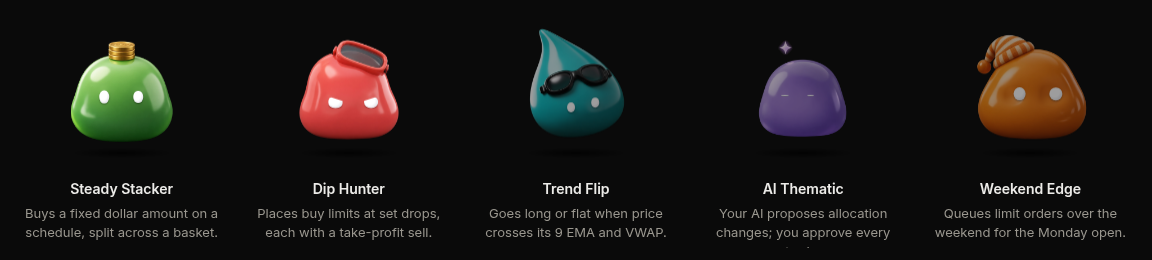
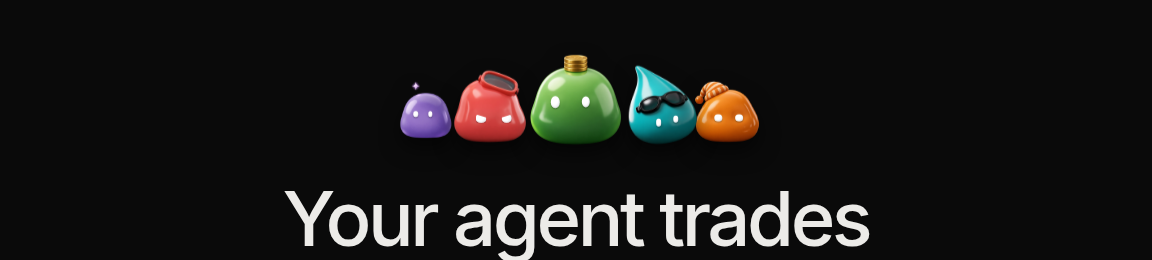
landing: 'Meet the agents' intro rows with personality, plain strategy and labelled illustrative examples

diff --git a/prototype/landing.js b/prototype/landing.js
@@ -3,11 +3,11 @@
 const DIS='<p class="lp-disc">Stock tokens are not available to US persons or residents of restricted regions and are not shares. Final copy pending legal review.</p>';
 const BADGE='<span class="lp-badge">Testnet, not real stocks</span>';
 const BOTS=[
- ["steady-stacker","Steady Stacker","Buys a fixed dollar amount on a schedule, split across a basket.",1],
- ["dip-hunter","Dip Hunter","Places buy limits at set drops, each with a take-profit sell.",1],
- ["trend-flip","Trend Flip","Goes long or flat when price crosses its 9 EMA and VWAP.",0],
- ["ai-thematic","AI Thematic","Your AI proposes allocation changes; you approve every trade.",0],
- ["weekend-edge","Weekend Edge","Queues limit orders over the weekend for the Monday open.",0]];
+ ["steady-stacker","Steady Stacker",1,"The patient one. Shows up on schedule, every time.","Buys a fixed dollar amount on a schedule, split across a basket of tokens you choose.","It's Monday morning. Steady Stacker split $30 across TSLA, AMD and PLTR, $10 each, same as last week."],
+ ["dip-hunter","Dip Hunter",1,"The bargain spotter. Waits for prices to slip.","Places buy orders at price drops you set, each paired with a sell order at a price you set.","TSLA dropped 4% this morning. Dip Hunter bought $50 at $238, then placed its sell order."],
+ ["trend-flip","Trend Flip",0,"The trend watcher. Moves when the short-term line flips.","Buys when the 9-period EMA crosses above VWAP on the 1-minute chart, and sells when it crosses back below.","At 10:42, AMD's 9 EMA crossed above VWAP and Trend Flip bought $40. At 2:15 it crossed back below, and Trend Flip sold."],
+ ["ai-thematic","AI Thematic",0,"The reader. Your AI follows the news so you don't have to.","Your AI reads news and earnings, then proposes allocation changes within your limits. You approve every trade.","After AMD's earnings call, your AI proposed moving $60 from PLTR to AMD. You approved it, and both trades went through."],
+ ["weekend-edge","Weekend Edge",0,"The planner. Does its homework over the weekend.","Queues limit orders over the weekend for the Monday open.","On Sunday, Weekend Edge queued a $50 NFLX buy limit for Monday. It fills only if NFLX opens at or below the limit."]];
 const FAQ=[["What are stock tokens?","Tokens on Robinhood Chain that track the price of a stock, traded here against USDG. They are not shares. In this demo they are testnet tokens from the Robinhood Chain faucet, with mock prices and no value."],["Who is eligible?","Not US persons, and not residents of the US, Canada, the UK, Switzerland, the UAE, Russia or sanctioned countries. We check your country, you sign an attestation with your wallet, and your smart wallet must be on our onchain eligibility list before it can trade. An identity-check provider is still being chosen."],["Do you hold my keys?","You own your wallet. We never hold its owner key. Your agent uses a limited key you can revoke anytime."],["What fees apply?","0.30% per trade, taken from the input token. Quotes are shown net of the fee."],["How do I stop my agent?","Revoke the agent key from the dashboard in one click. Keys also expire after 7 days."],["Are strategies advice?","No. They are templates: you choose the parameters and StockClaw executes them within your limits. Tools, not investment advice. Final copy pending."],["Is this real money?","No. This is a testnet demo; tokens and prices are mocks."]];
 const bot=(id,n)=>window.SCEyes?SCEyes.html(id,n,144):`<img src="avatars/final-${id}.png" width="144" height="144" alt="${n} mascot">`;
 function Landing(){return `<div class="lp">
@@ -21,9 +21,9 @@ ${(()=>{const F=[["ai-thematic","AI Thematic",84],["dip-hunter","Dip Hunter",104
 <p class="lp-clients">Works in Claude <span aria-hidden="true">/</span> ChatGPT <span aria-hidden="true">/</span> Grok <span aria-hidden="true">/</span> Cursor, as an MCP connector for Robinhood Chain stock tokens and USDG.</p>
 <div class="lp-cta"><a class="lp-btn" href="#/onboarding/eligibility">Try the testnet demo <span aria-hidden="true">→</span></a><a class="lp-ghost" href="#lp-wait">Join the waitlist</a></div>
 </section>
-<section class="lp-line" aria-labelledby="lp-bots"><h2 id="lp-bots" class="lp-sr">Strategy agents</h2>
-<ul>${BOTS.map(([id,n,r,live])=>`<li class="${live?"":"soon"}">${bot(id,n)}<h3>${n}</h3><p>${r}</p><span class="lp-tag ${live?"live":""}">${live?"Live on testnet":"Coming soon"}</span></li>`).join("")}</ul>
-<p class="lp-note">Tools, not investment advice. Final copy pending.</p></section>
+<section class="lp-line" aria-labelledby="lp-bots"><h2 id="lp-bots" class="lp-meet">Meet the agents</h2>
+<p class="lp-meet-note">Each agent is a set of rules you configure. The stories below are illustrative examples, not real results or performance claims. Tools, not investment advice. Final copy pending.</p>
+<ol class="lp-intro">${BOTS.map(([id,n,live,intro,how,story],i)=>`<li class="${live?"":"soon"} ${i%2?"rev":""}">${bot(id,n)}<div class="lp-it"><h3>${n} <span class="lp-tag ${live?"live":""}">${live?"Live on testnet":"Coming soon"}</span></h3><p class="lp-intro-l">${intro}</p><p><span class="lp-lbl">Strategy</span>${how}</p><figure class="lp-story"><span class="lp-ill">Illustrative example, not a real result</span><blockquote>${story}</blockquote></figure></div></li>`).join("")}</ol></section>
 <section class="lp-sec" id="lp-how" aria-labelledby="lp-how-h"><p class="lp-k">01</p><h2 id="lp-how-h">How it works</h2>
 <ol class="lp-steps"><li><b>Check eligibility.</b> Answer a few questions, then sign an attestation with your wallet.</li><li><b>Set up your wallet.</b> A smart wallet owned by your own wallet.</li><li><b>Create an agent key.</b> Limited to $100 per trade, $500 per day, allowlisted tickers only.</li><li><b>Fund it.</b> Get testnet mUSDG from the in-app faucet.</li><li><b>Connect your client.</b> Paste the connector URL into Claude, ChatGPT, Grok or Cursor, then ask your agent to trade.</li></ol></section>
 <section class="lp-sec" id="lp-safety" aria-labelledby="lp-safe-h"><p class="lp-k">02</p><h2 id="lp-safe-h">Safety and limits</h2>

diff --git a/prototype/landing.css b/prototype/landing.css
@@ -80,3 +80,21 @@ body.is-landing .tnbar{background:#141416;color:#c9c7c2;border-bottom:1px solid 
 .lp-fm0{margin-right:-30px;z-index:1;transform:translateY(-6px)}.lp-fm1{margin-right:-30px;z-index:2}.lp-fm2{z-index:3;transform:translateY(4px)}.lp-fm3{margin-left:-30px;z-index:2}.lp-fm4{margin-left:-30px;z-index:1;transform:translateY(-6px)}
 @media (max-width:520px){.lp-fam{transform:scale(.78);height:112px;transform-origin:bottom center;margin-bottom:-4px}}
 .lp-hero{padding-top:40px}.lp-hero h1{margin-top:20px}
+.lp-meet{font-size:28px;letter-spacing:-.03em;font-weight:500;margin:0 0 8px;text-align:center}
+.lp-meet-note{text-align:center;color:var(--mut);font-size:13px;max-width:560px;margin:0 auto 40px}
+.lp-line .lp-intro{list-style:none;margin:0 auto;padding:0;max-width:880px;display:block;text-align:left}
+.lp-intro>li{display:flex;align-items:center;gap:48px;padding:40px 0;border-top:1px solid var(--line)}
+.lp-intro>li.rev{flex-direction:row-reverse}
+.lp-intro>li .lp-bot{flex:0 0 auto;margin:0;width:150px!important;height:150px!important}
+.lp-intro>li.soon .lp-bot{opacity:.6}
+.lp-it{flex:1;min-width:0}
+.lp-it h3{font-size:22px;font-weight:500;letter-spacing:-.02em;margin:0 0 4px;display:flex;gap:12px;align-items:baseline;flex-wrap:wrap}
+.lp-line .lp-it p{font-size:15px;color:#bdbab3;margin:0 0 12px;max-width:none}
+.lp-line .lp-it .lp-intro-l{color:var(--fg);font-size:16px}
+.lp-lbl{display:block;font-size:11px;text-transform:uppercase;letter-spacing:.08em;color:var(--mut);margin-bottom:2px}
+.lp-story{margin:16px 0 0;padding:0 0 0 16px;border-left:2px solid var(--or)}
+.lp-story blockquote{margin:6px 0 0;font-size:15px;color:var(--fg);font-style:normal}
+.lp-ill{font-size:11px;letter-spacing:.04em;color:var(--mut);border:1px solid #3a3a3f;border-radius:999px;padding:2px 8px}
+@media (max-width:700px){.lp-intro>li,.lp-intro>li.rev{flex-direction:column;align-items:flex-start;gap:16px;padding:32px 0}.lp-intro>li .lp-bot{width:112px!important;height:112px!important}}
+.lp-intro>li::before{display:none}.lp-intro .lp-bot{filter:drop-shadow(0 14px 12px rgba(0,0,0,.55))}
+.lp-line .lp-meet-note{max-width:560px;margin:0 auto 40px;font-size:13px}

diff --git a/prototype/index.html b/prototype/index.html
@@ -1,8 +1,8 @@
 <!doctype html><html lang="en"><head><meta charset="utf-8"><meta name="viewport" content="width=device-width,initial-scale=1">
-<link rel="icon" href="favicon.svg" type="image/svg+xml"><link rel="icon" href="favicon-32.png" sizes="32x32"><title>StockClaw prototype (testnet)</title><link rel="stylesheet" href="app.css?v=17b"><link rel="stylesheet" href="landing.css?v=9"><link rel="stylesheet" href="dashboard.css?v=2"></head><body>
+<link rel="icon" href="favicon.svg" type="image/svg+xml"><link rel="icon" href="favicon-32.png" sizes="32x32"><title>StockClaw prototype (testnet)</title><link rel="stylesheet" href="app.css?v=17b"><link rel="stylesheet" href="landing.css?v=11"><link rel="stylesheet" href="dashboard.css?v=2"></head><body>
 <a class="skip" href="#main">Skip to content</a>
 <div class="tnbar" role="note"><span class="bn-t">Local testnet demo: mock tokens, simulated prices, simulated owner wallet.</span> <span class="bn-o"></span> <a href="#" id="reset">Reset demo</a></div>
 <main id="main" tabindex="-1"></main>
 <div id="live" class="sr" aria-live="polite"></div>
 <div id="modal" hidden></div>
-<script src="api.js?v=16"></script><script src="app.js?v=19"></script><script src="eyes.js?v=1"></script><script src="landing.js?v=8"></script><script src="dashboard.js?v=2"></script></body></html>
+<script src="api.js?v=16"></script><script src="app.js?v=19"></script><script src="eyes.js?v=1"></script><script src="landing.js?v=10"></script><script src="dashboard.js?v=2"></script></body></html>
